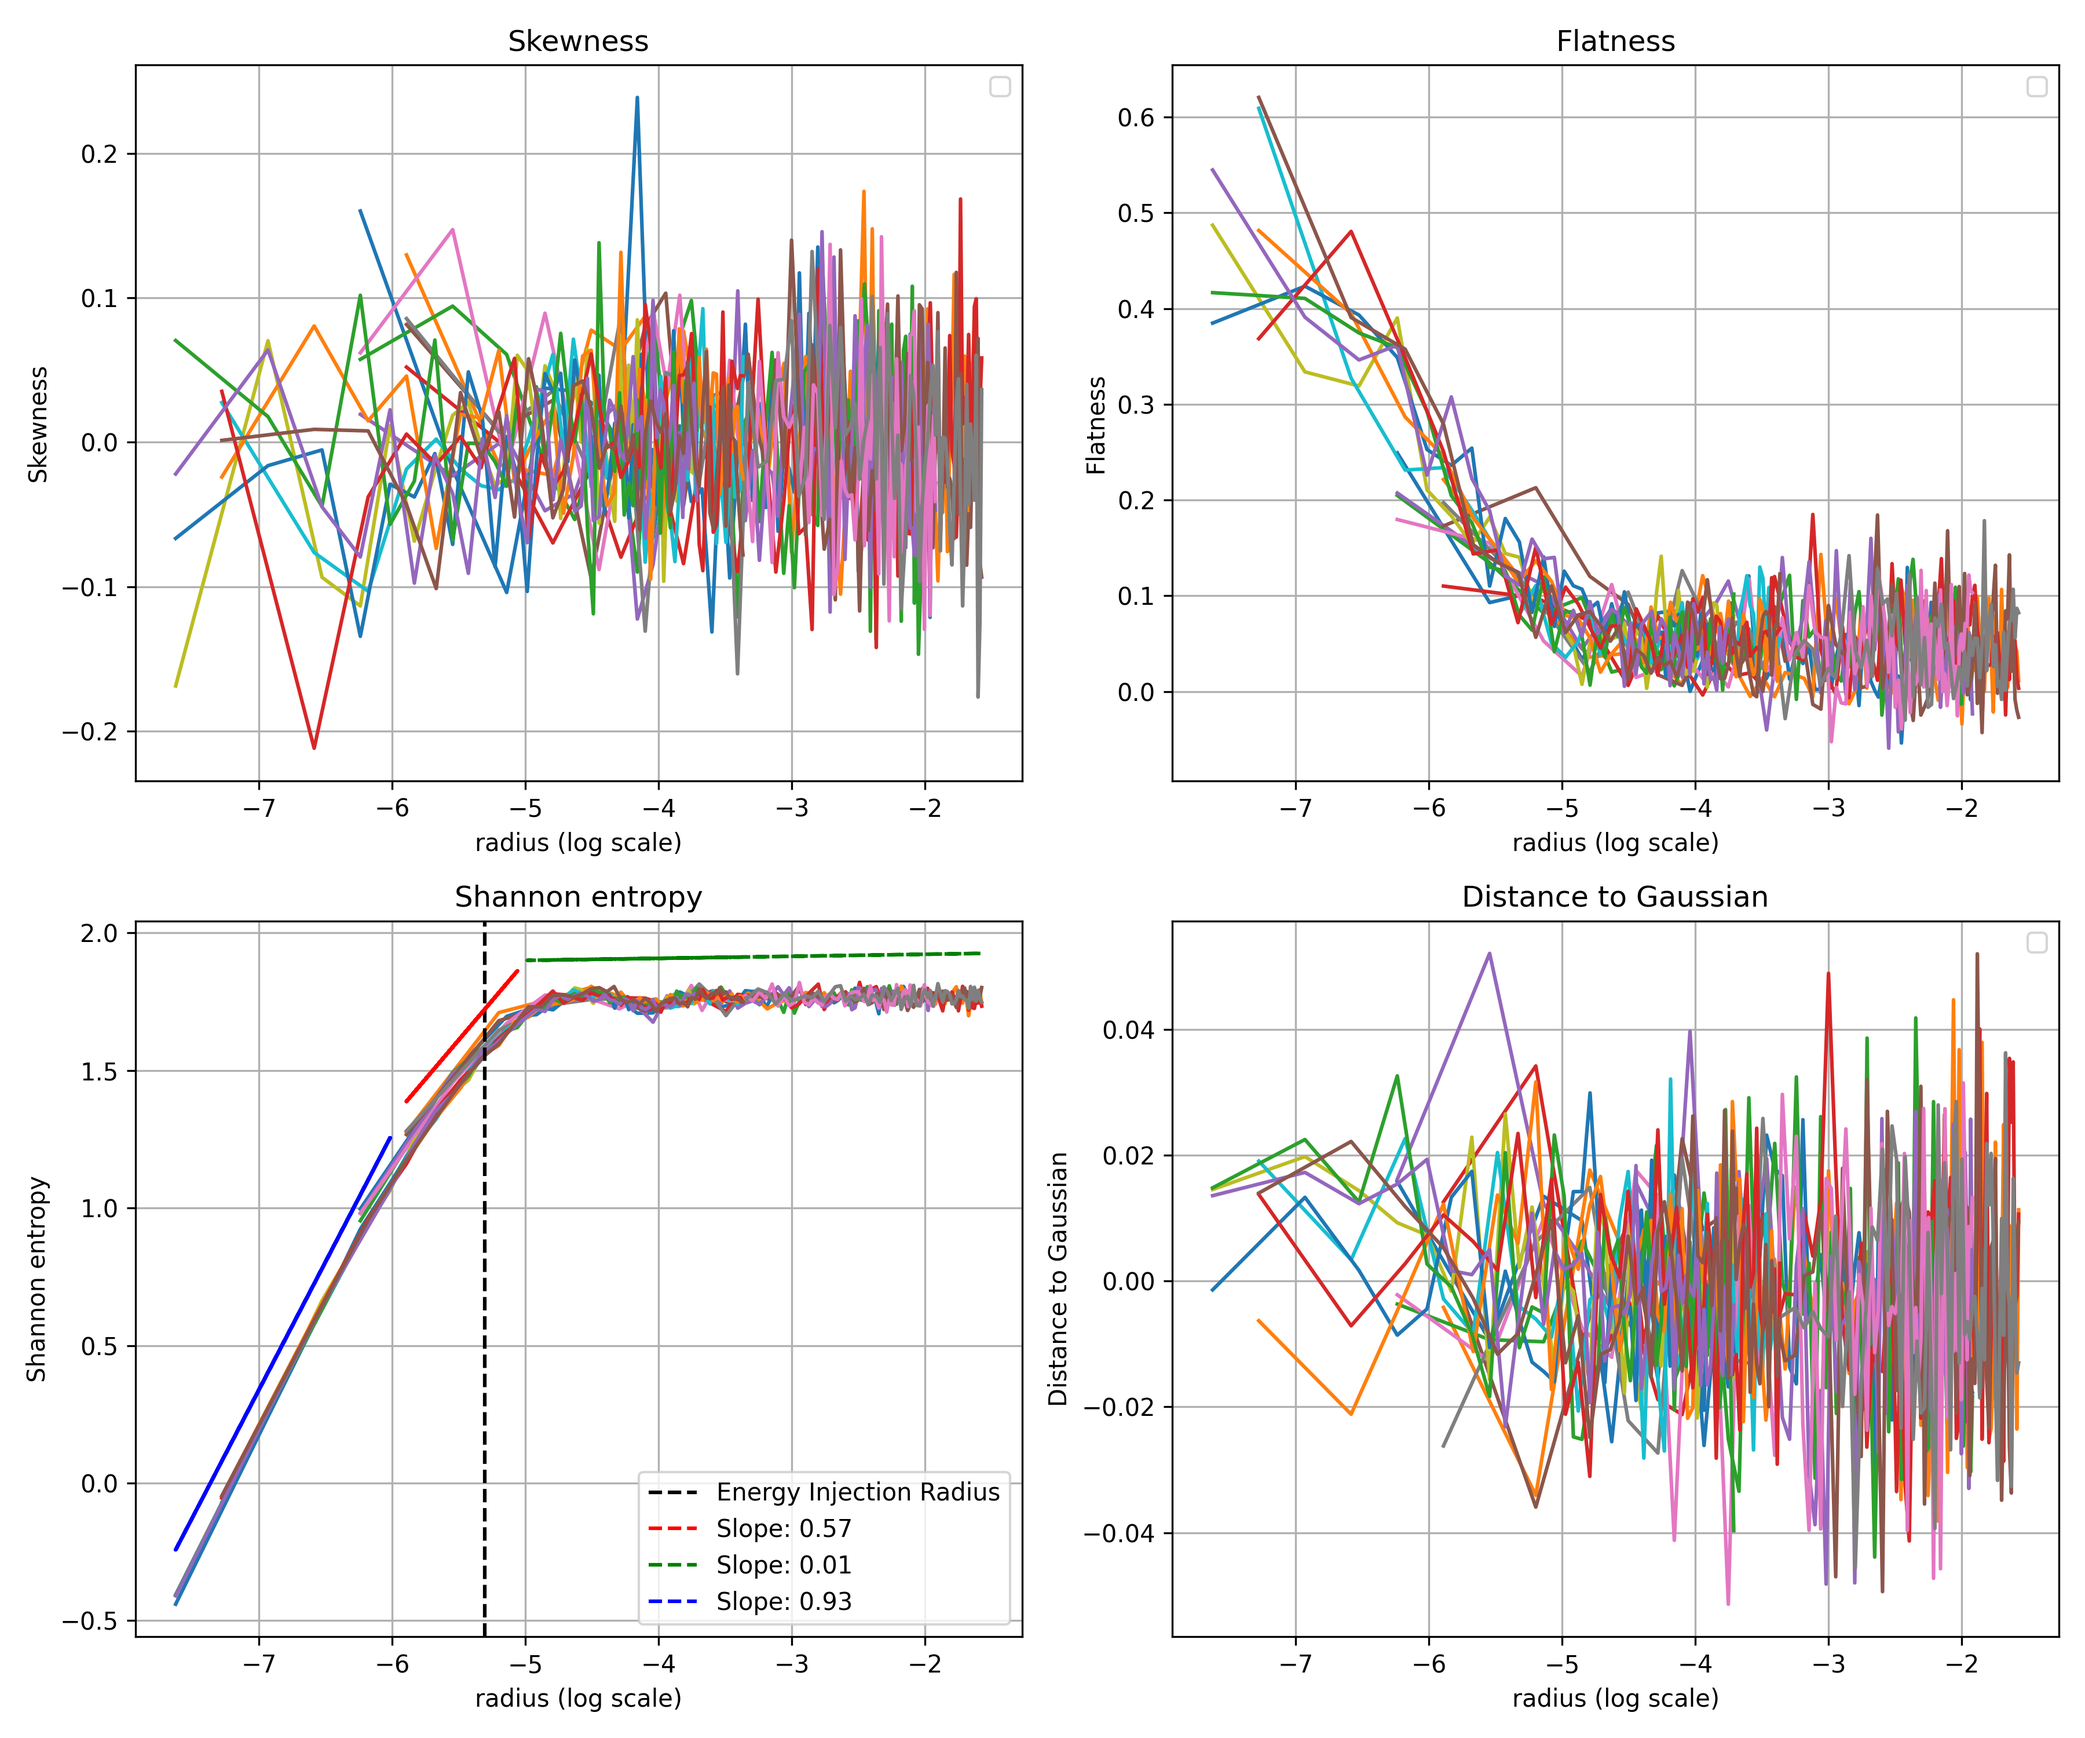
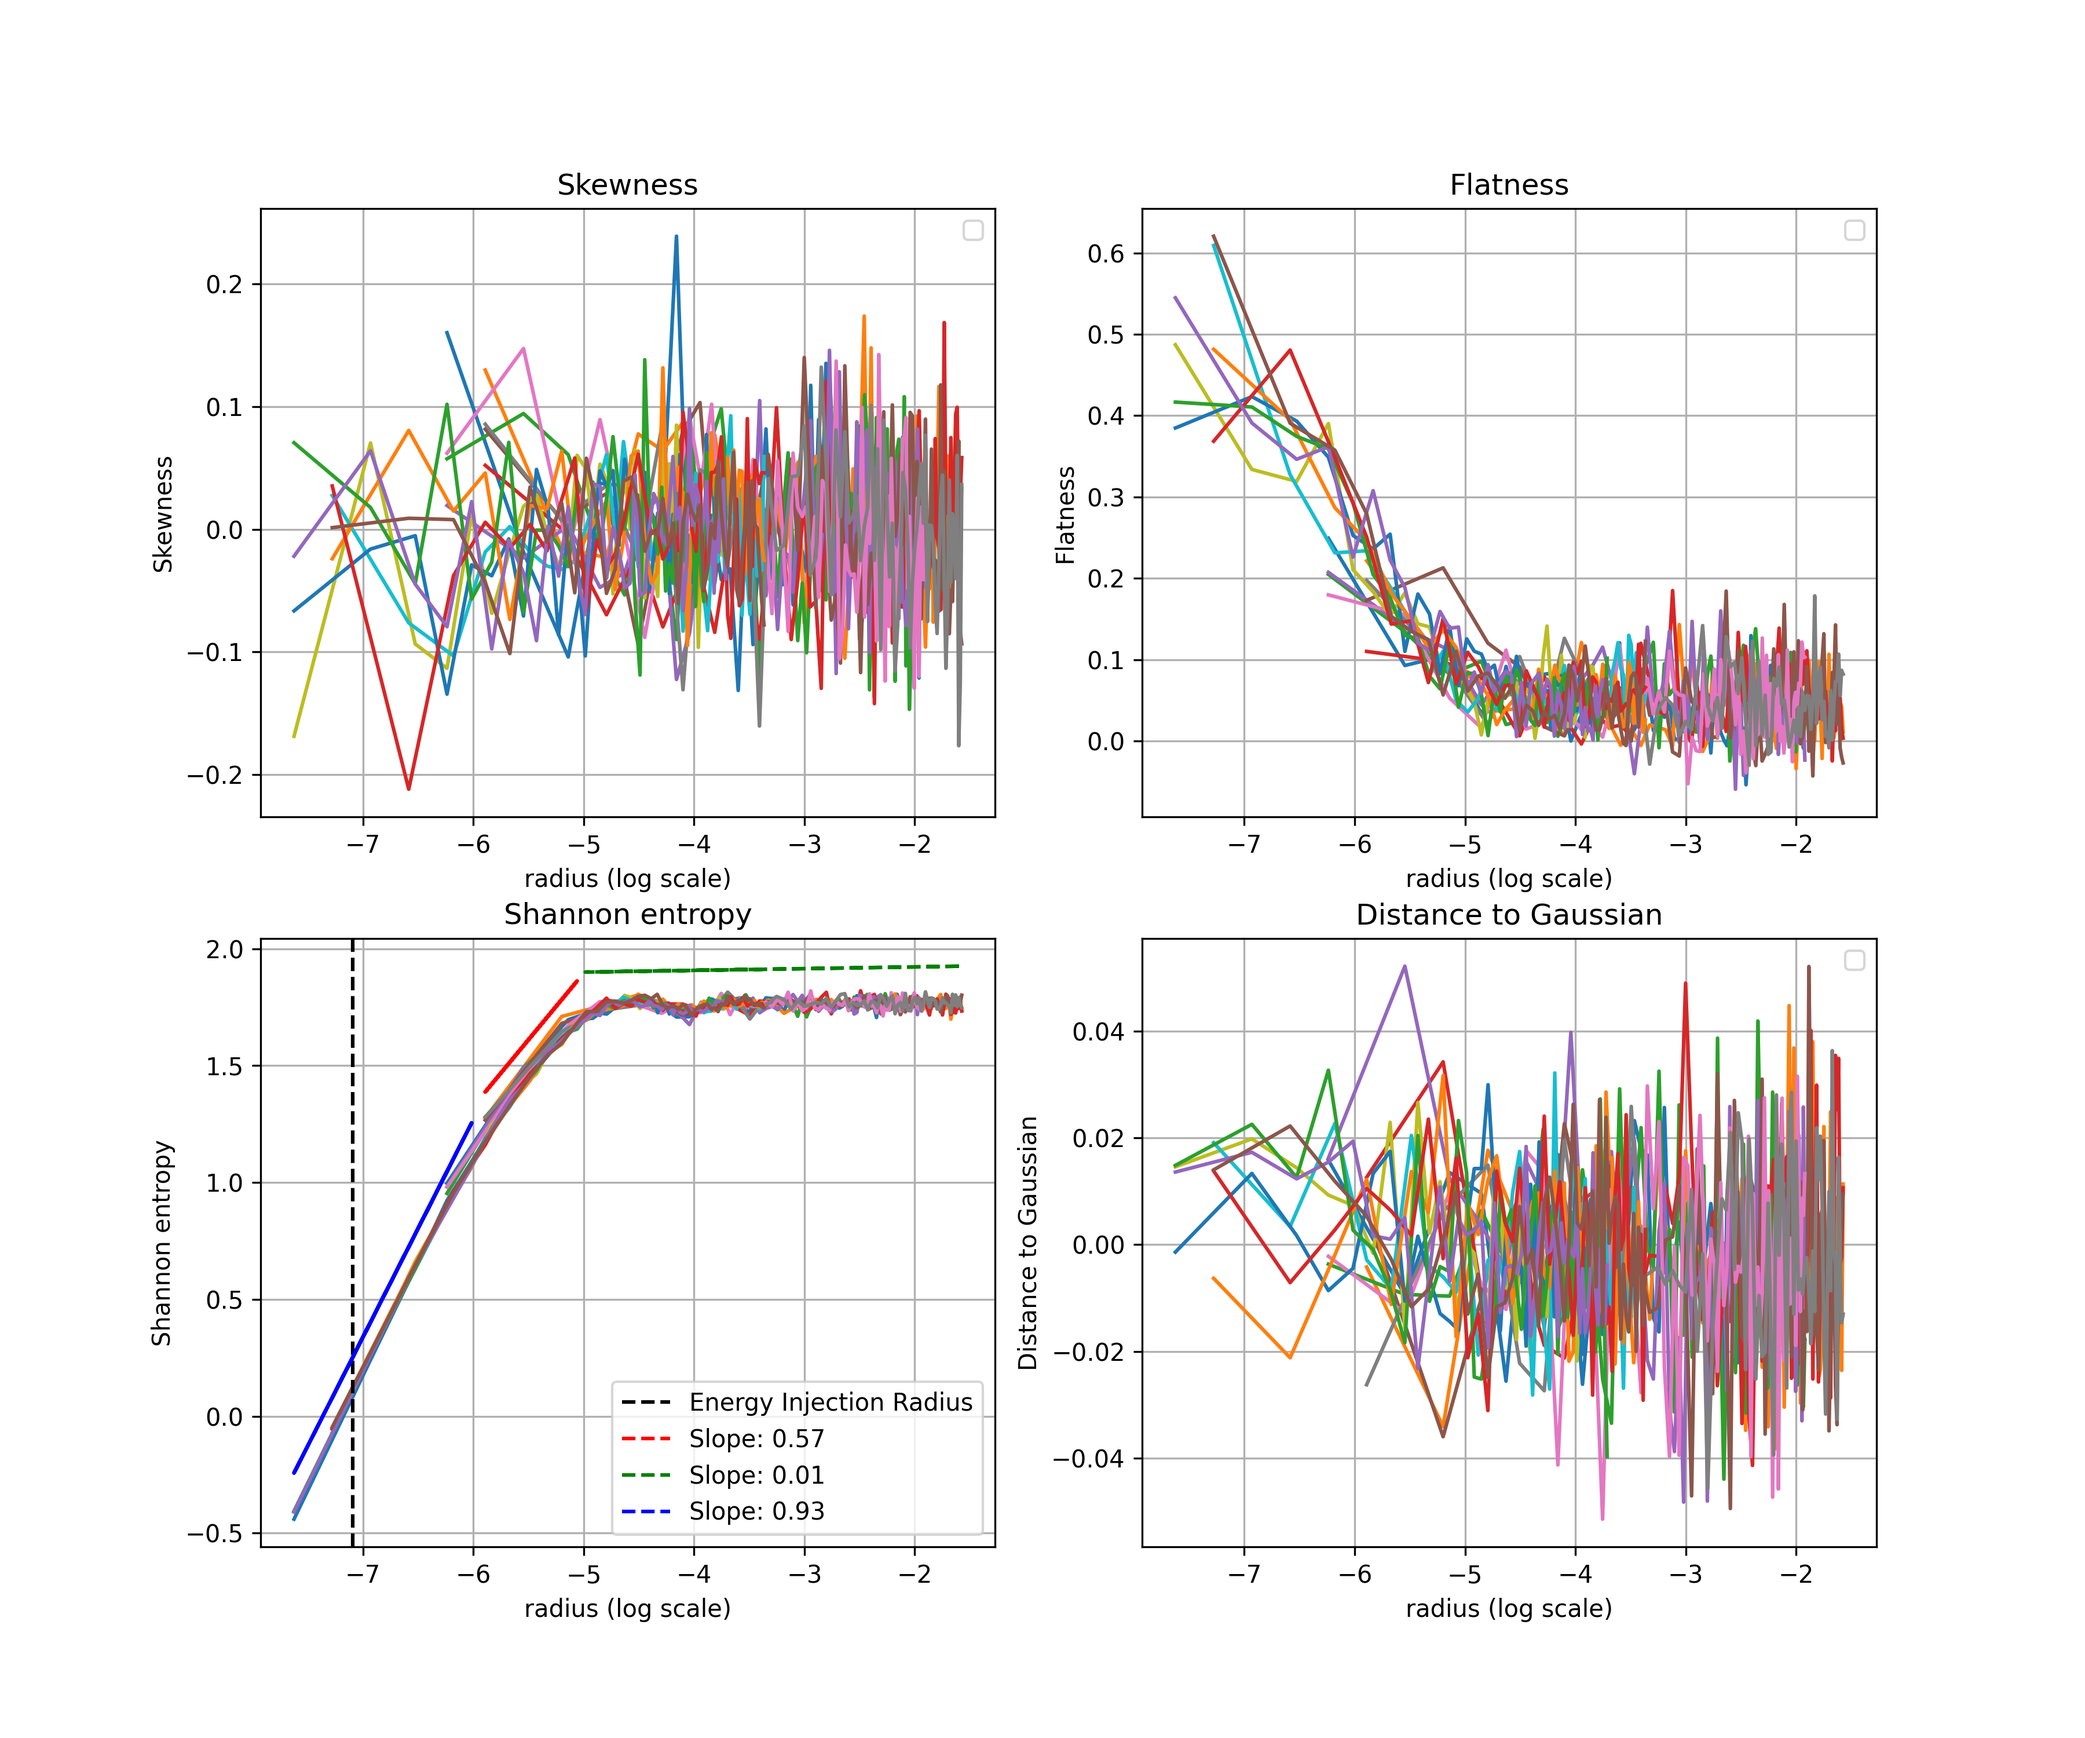
Added the energy spectrum and reworked the K estimùation again

diff --git a/Plotting.py b/Plotting.py
@@ -70,6 +70,39 @@ for j in range(n_sim):
     if not os.path.exists(out_dir + scale_dir):
         os.makedirs(out_dir + scale_dir, exist_ok=True)
 
+    # Compute and plot energy spectrum
+    fft_ww = np.fft.fft2(WW)
+    fft_ww_shifted = np.fft.fftshift(fft_ww)
+    energy_spectrum = np.abs(fft_ww_shifted)**2
+    
+    # Compute radial wavenumber
+    ny, nx = WW.shape
+    kx = 2 * np.pi * np.fft.fftfreq(nx, ls)
+    ky = 2 * np.pi * np.fft.fftfreq(ny, ls)
+    kx_shifted = np.fft.fftshift(kx)
+    ky_shifted = np.fft.fftshift(ky)
+    Kx, Ky = np.meshgrid(kx_shifted, ky_shifted)
+    k_radial = np.sqrt(Kx**2 + Ky**2)
+    
+    # Bin the energy by wavenumber
+    k_bins = np.linspace(0, np.max(k_radial), 100)
+    E_k = np.zeros(len(k_bins)-1)
+    for i in range(len(k_bins)-1):
+        mask = (k_radial >= k_bins[i]) & (k_radial < k_bins[i+1])
+        E_k[i] = np.mean(energy_spectrum[mask]) if np.any(mask) else 0
+    
+    k_centers = (k_bins[:-1] + k_bins[1:]) / 2
+    
+    # Plot energy spectrum
+    fig_spectrum, ax_spectrum = plt.subplots(figsize=(10, 6))
+    ax_spectrum.loglog(k_centers[k_centers > 0], E_k[k_centers > 0])
+    ax_spectrum.set_xlabel('Wavenumber k')
+    ax_spectrum.set_ylabel('Energy E(k)')
+    ax_spectrum.set_title(f'Energy Spectrum - Simulation {sim_n}')
+    ax_spectrum.grid(True, which='both', alpha=0.3)
+    fig_spectrum.savefig(out_dir + scale_dir + f'Energy-spectrum-{scaleth}.png', dpi=300)
+    fig_spectrum.show()
+
     # Definition of scales
     scales=np.arange(-scaleth,scaleth+1,1)
 
@@ -167,7 +200,7 @@ for j in range(n_sim):
         ax.grid(True)
 
 ax = axes[2]
-vertical_line_position =  np.log(1/K * 2/box_size)
+vertical_line_position =  np.log(1/K * 1/(3*box_size))
 ax.axvline(x=vertical_line_position, color='black', linestyle='--', label='Energy Injection Radius')
 for i, r_fit in enumerate(data_chunks):
     
